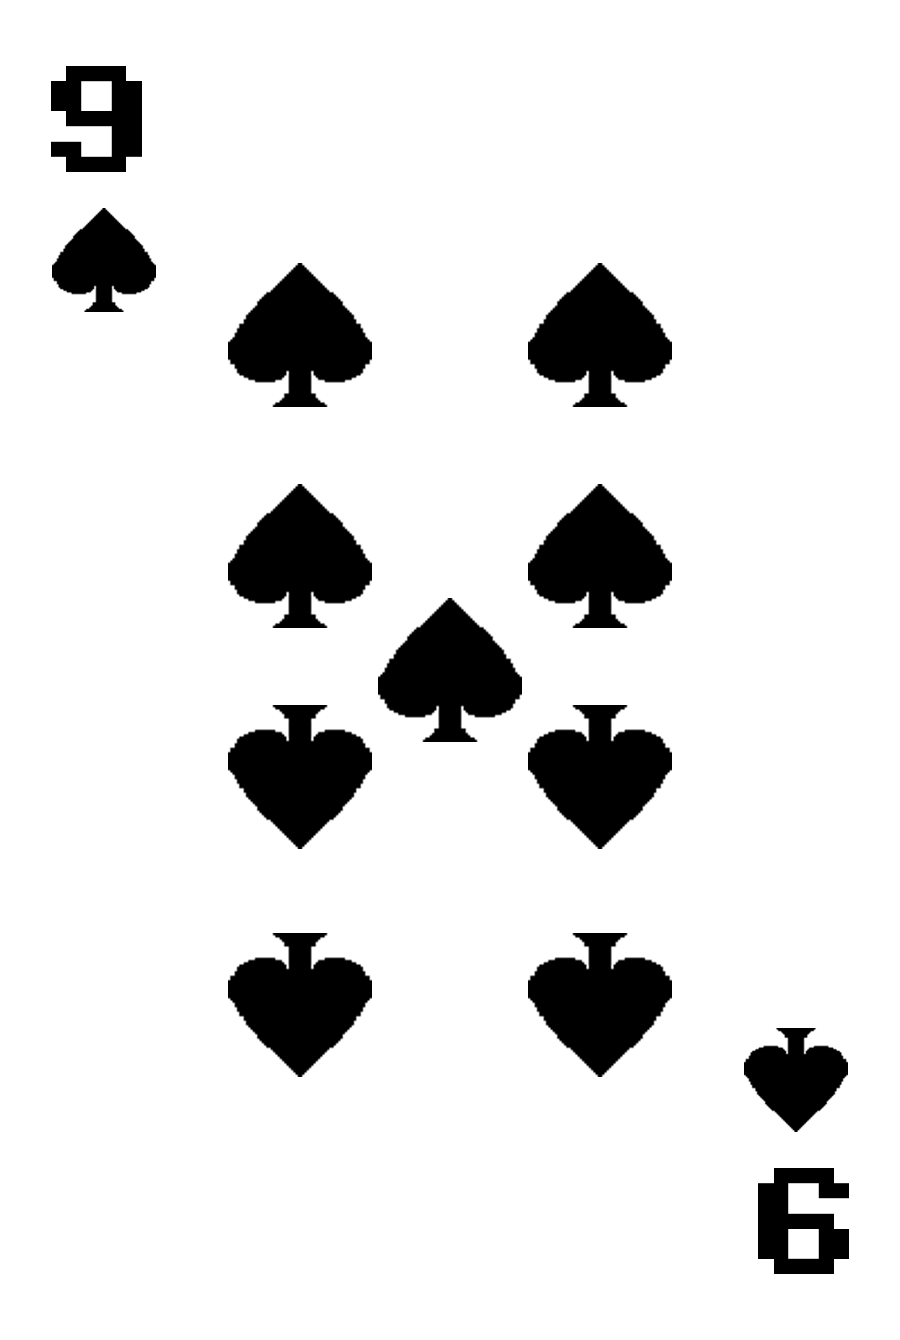
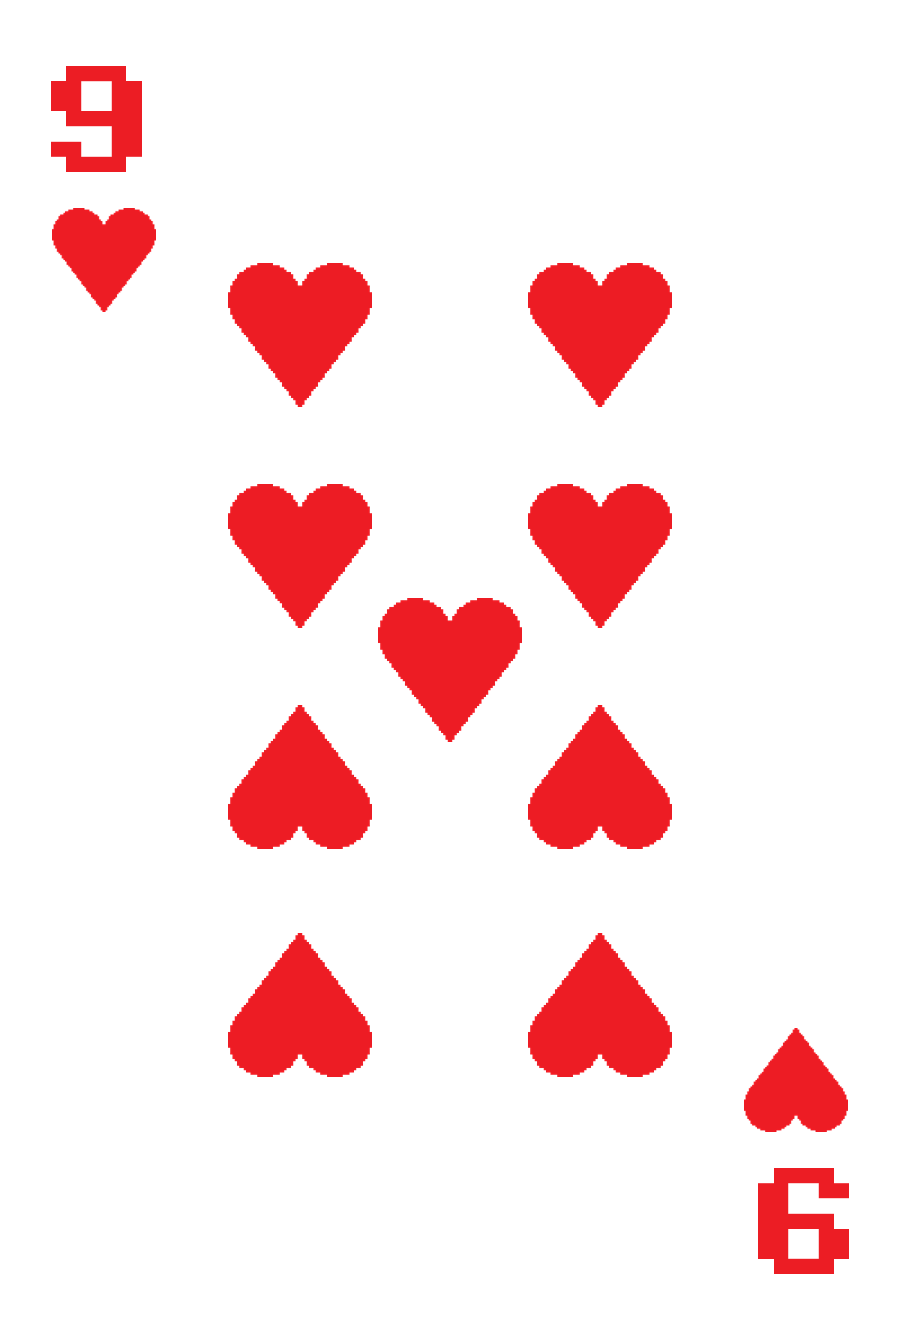
color correction

diff --git a/Generate.py b/Generate.py
@@ -155,10 +155,11 @@ class Card:
         draw = ImageDraw.Draw(letter)
         font = ImageFont.truetype('pixeloid-sans/PixeloidSans-Bold.ttf', 136)
         (width, height) = draw.textsize(self.value, font=font)
+        fill = '#EC1D24' if self.suit == hearts or self.suit == diamonds else 'black'
         draw.text(
             (SMALL_SUIT_SIZE - width / 2 , SMALL_SUIT_SIZE - height / 2),
             self.value,
-            fill='black',
+            fill=fill,
             font=font
         )
         extra_x = 0 if len(self.value) == 1 else 16
@@ -175,5 +176,5 @@ class Card:
         return self.img
 
             
-aceSpades = Card(spades, "9")
+aceSpades = Card(hearts, "9")
 aceSpades.make_image().save("card.png")
